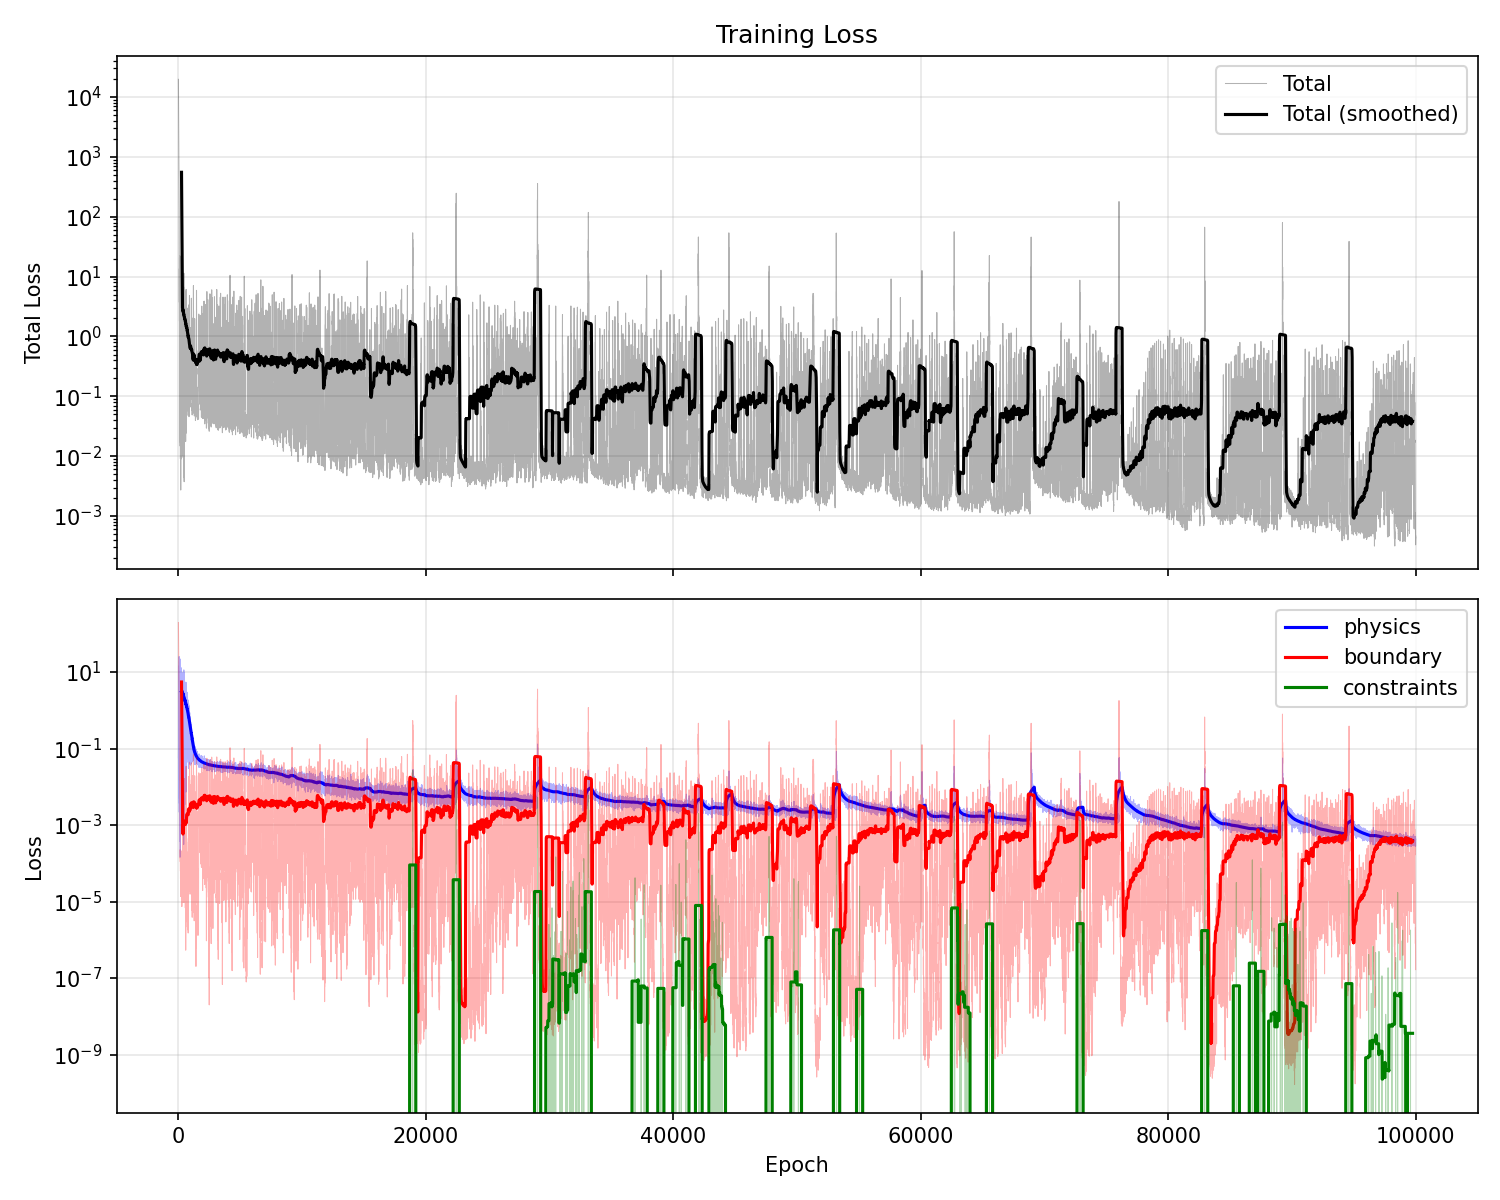
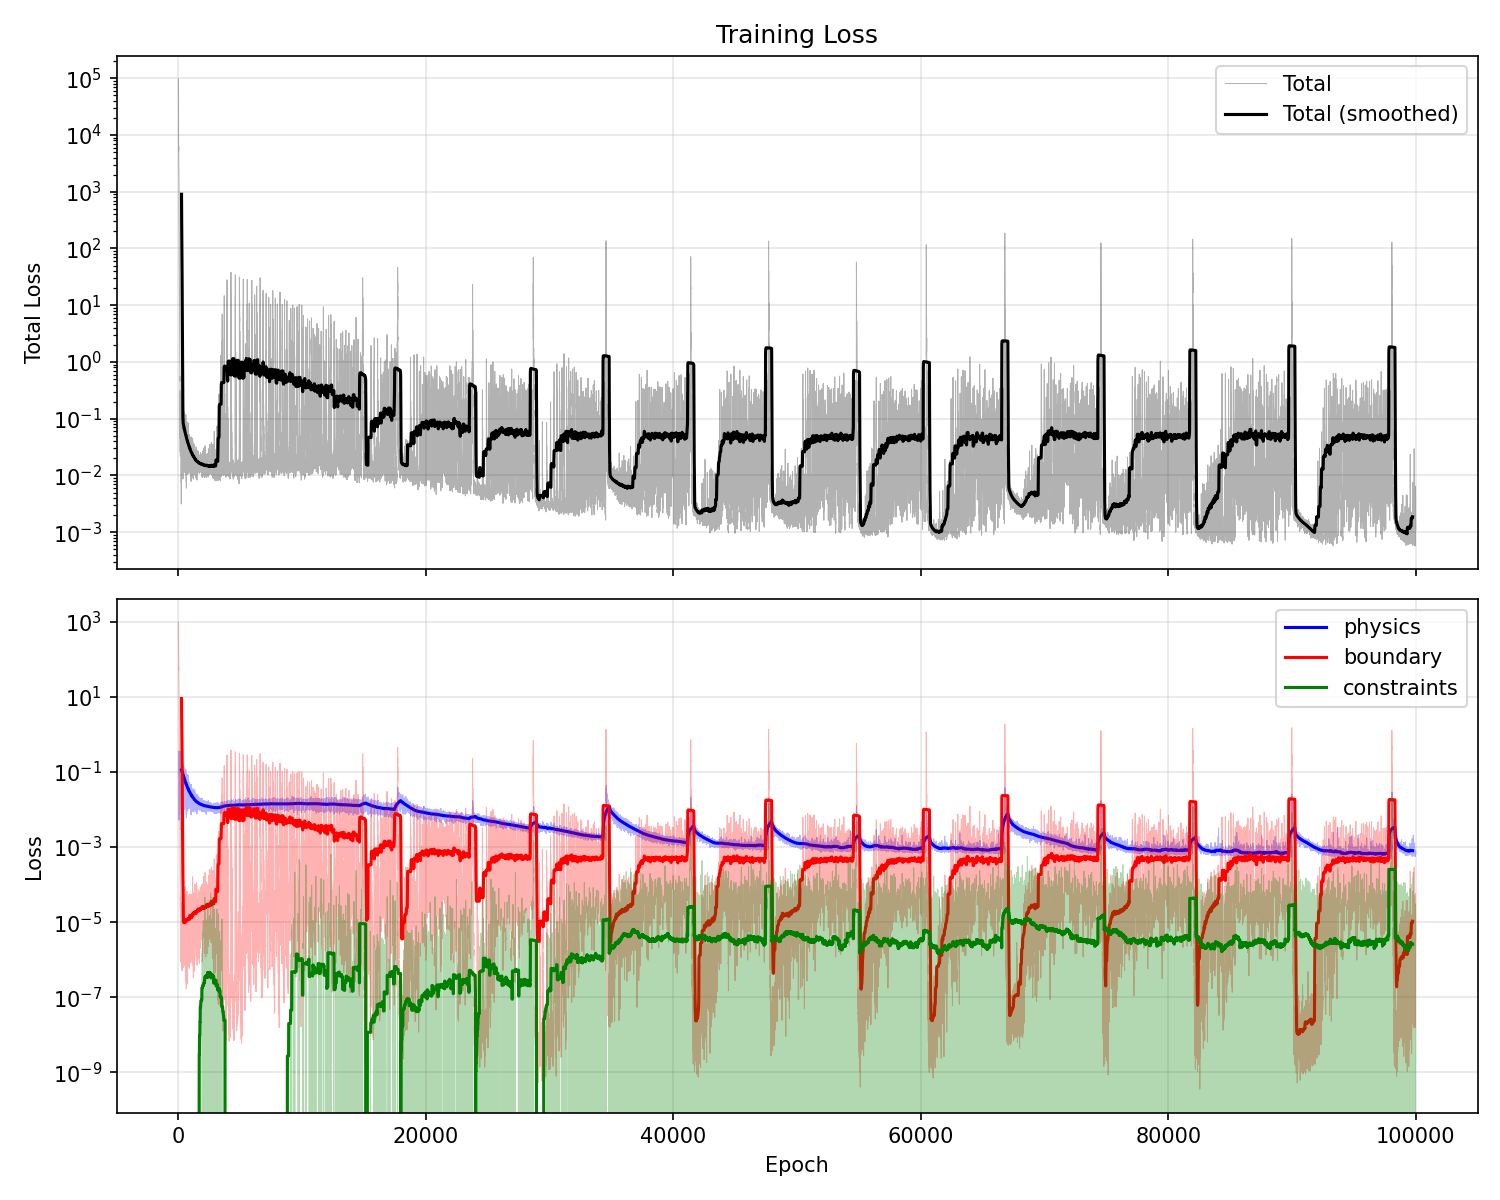
update

diff --git a/src/nn/ParkingVehiclePINN.py b/src/nn/ParkingVehiclePINN.py
@@ -98,55 +98,61 @@ class ParkingVehiclePINN():
         fig, ax = plt.subplots(figsize=(8, 8))
         trail_line, = ax.plot([], [], 'b-', linewidth=1, alpha=0.4)
 
-        # rear_axle_offset: distance from vehicle center to rear axle
-        rear_axle_offset = vehicle_length / 2 - 0.5  # rear axle ~0.5m from rear
+        # Rear overhang: distance from rear axle to rear of vehicle
+        rear_overhang = (vehicle_length - wheelBase) / 2
 
-        def draw_vehicle_rect(ax, cx, cy, th):
-            """Return a rotated rectangle patch centered at (cx, cy) with heading th."""
+        def draw_vehicle_rect(ax, rear_ax_x, rear_ax_y, th):
+            """Return a rotated rectangle with rear axle at (rear_ax_x, rear_ax_y)."""
             cos_t, sin_t = np.cos(th), np.sin(th)
-            # corners relative to center
-            hw, hl = vehicle_width / 2, vehicle_length / 2
+            hw = vehicle_width / 2
+            # Rectangle corners in local frame (rear axle at origin)
+            # x-axis: -rear_overhang (behind rear axle) to wheelBase + rear_overhang (front)
             corners = np.array([
-                [-hl, -hw],
-                [ hl, -hw],
-                [ hl,  hw],
-                [-hl,  hw],
+                [-rear_overhang,      -hw],
+                [wheelBase + rear_overhang, -hw],
+                [wheelBase + rear_overhang,  hw],
+                [-rear_overhang,       hw],
             ])
             rot = np.array([[cos_t, -sin_t], [sin_t, cos_t]])
-            rotated = corners @ rot.T + np.array([cx, cy])
+            rotated = corners @ rot.T + np.array([rear_ax_x, rear_ax_y])
             from matplotlib.patches import Polygon
             return Polygon(rotated, closed=True, facecolor='skyblue',
                            edgecolor='black', linewidth=1.5, zorder=5)
 
         def update(frame):
             ax.clear()
-            cx, cy, th, dt = x[frame], y[frame], theta[frame], delta[frame]
+            # (rx, ry) = rear axle position from the kinematic model
+            rx, ry, th, dt = x[frame], y[frame], theta[frame], delta[frame]
 
-            # Trail
+            # Trail (rear axle path)
             ax.plot(x[:frame+1], y[:frame+1], 'b-', linewidth=1, alpha=0.4)
             # Full path ghost
             ax.plot(x, y, color='gray', linewidth=0.5, alpha=0.2)
 
-            # Start and target markers
+            # Start and target markers (rear axle positions)
             ax.plot(x[0], y[0], 'go', markersize=8, label='Start')
             ax.plot(10.0, 10.0, 'r*', markersize=14, label='Target')
 
-            # Vehicle body
-            body = draw_vehicle_rect(ax, cx, cy, th)
+            # Vehicle body (anchored at rear axle)
+            body = draw_vehicle_rect(ax, rx, ry, th)
             ax.add_patch(body)
 
             cos_t, sin_t = np.cos(th), np.sin(th)
 
-            # Heading arrow from center
+            # Vehicle center for heading arrow
+            center_x = rx + (wheelBase / 2) * cos_t
+            center_y = ry + (wheelBase / 2) * sin_t
+
+            # Heading arrow from vehicle center
             arrow_len = vehicle_length * 0.6
-            ax.annotate('', xy=(cx + arrow_len * cos_t, cy + arrow_len * sin_t),
-                        xytext=(cx, cy),
+            ax.annotate('', xy=(center_x + arrow_len * cos_t, center_y + arrow_len * sin_t),
+                        xytext=(center_x, center_y),
                         arrowprops=dict(arrowstyle='->', color='red', lw=2),
                         zorder=10)
 
-            # Front axle position
-            front_x = cx + (vehicle_length / 2 - 0.5) * cos_t
-            front_y = cy + (vehicle_length / 2 - 0.5) * sin_t
+            # Front axle position (rear axle + wheelBase along heading)
+            front_x = rx + wheelBase * cos_t
+            front_y = ry + wheelBase * sin_t
 
             # Steering angle indicator (front wheel direction)
             steer_angle = th + dt
@@ -158,9 +164,7 @@ class ParkingVehiclePINN():
                         zorder=10)
 
             # Rear axle marker
-            rear_x = cx - (vehicle_length / 2 - 0.5) * cos_t
-            rear_y = cy - (vehicle_length / 2 - 0.5) * sin_t
-            ax.plot(rear_x, rear_y, 'ko', markersize=4, zorder=10)
+            ax.plot(rx, ry, 'ko', markersize=4, zorder=10)
 
             ax.set_xlim(lim)
             ax.set_ylim(lim)
@@ -316,14 +320,14 @@ class ParkingVehiclePINN():
 
         wheelBase = 2.5
 
-        start_state = VehicleState(x=0.0, y=0.0, theta=0.0, v=0.0, a=0.0, delta=0.0, omega=0.0, alpha=0.0)
-        target_state = VehicleState(x=10.0, y=10.0, theta=0.0, v=0.0, a=0.0, delta=0.0, omega=0.0, alpha=0.0)
+        start_state = VehicleState(x=5.0, y=5.0, theta=0.0, v=0.0, a=0.0, delta=0.0, omega=0.0, alpha=0.0)
+        target_state = VehicleState(x=0.0, y=5.0, theta=np.pi, v=0.0, a=0.0, delta=0.0, omega=0.0, alpha=0.0)
 
         # Dense time grid for visualization snapshots
         t_dense = torch.linspace(0, 60, 200, device=device).unsqueeze(1)
         snapshots = []
         total_epochs = 100000
-        capture_interval = 200
+        capture_interval = 1000
 
         loss_history = {'total': [], 'physics': [], 'boundary': [], 'constraints': []}
 
